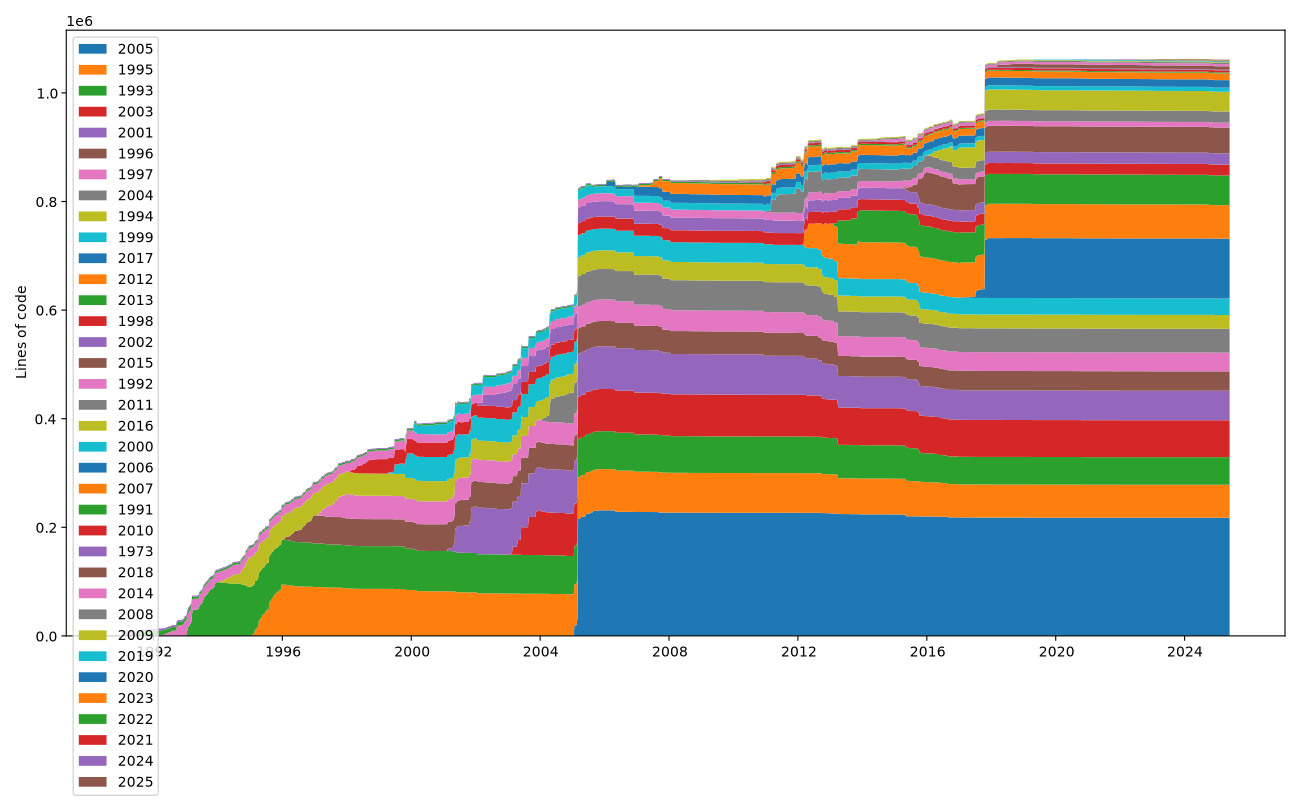
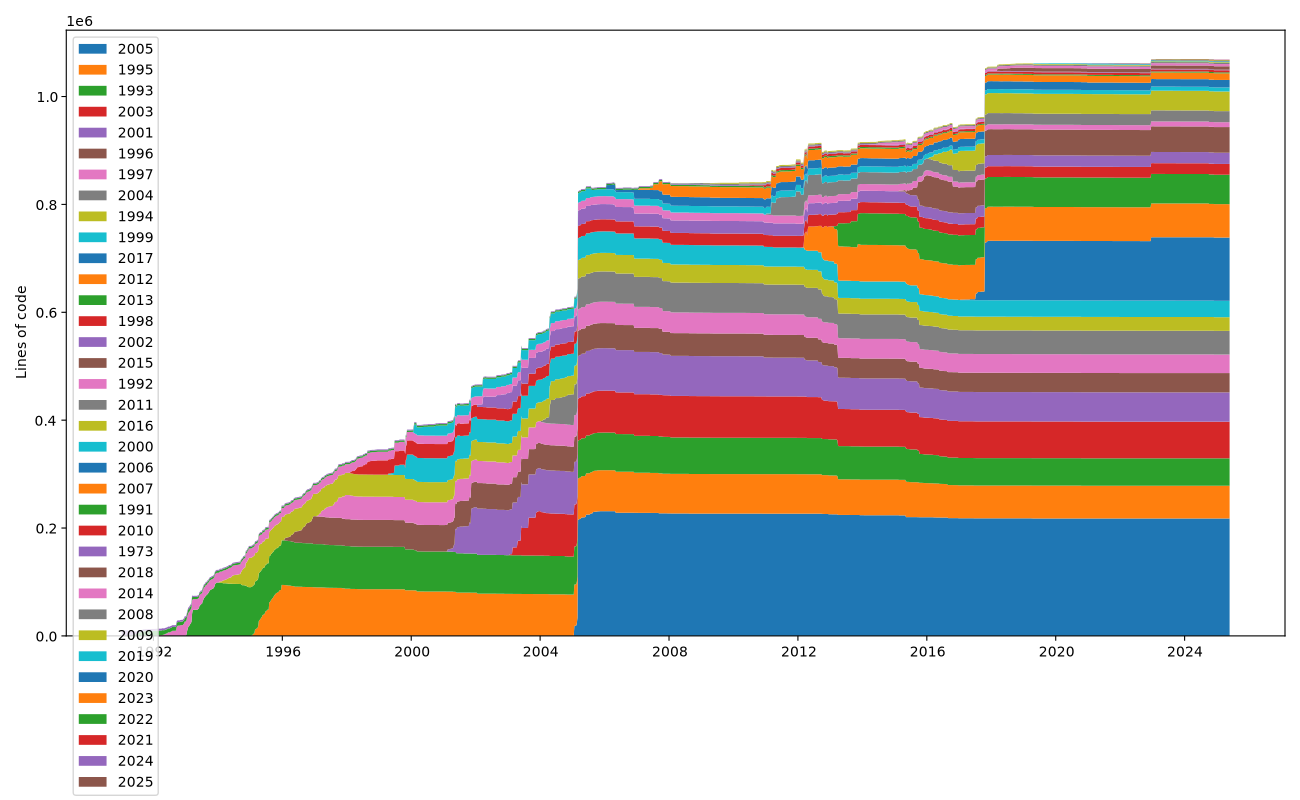
WIP: recalcuating stats

diff --git a/analysis/analyze.py b/analysis/analyze.py
@@ -14,7 +14,7 @@
 # See the License for the specific language governing permissions and
 # limitations under the License.
 
-from __future__ import print_function
+#from __future__ import print_function
 import argparse, git, datetime, numpy, pygments.lexers, traceback, time, os, fnmatch, json
 import pandas as pd
 from tqdm import tqdm
@@ -28,7 +28,11 @@ from datetime import UTC
 IGNORE_PYGMENTS_FILETYPES = ['*.json', '*.md', '*.ps', '*.eps', '*.txt', '*.xml', '*.xsl', '*.rss', '*.xslt', '*.xsd', '*.wsdl', '*.wsf', '*.yaml', '*.yml']
 
 
-def analyze(repos, interval=7*24*60*60, ignore=[], only=[],branch=None,rename={},cohortfm='%Y',all_filetypes=False,prefix='.',earliest=None):
+def analyze(repos, interval=7*24*60*60, 
+      ignore=[], only=[],branch=None,
+      rename={},cohortfm='%Y',
+      all_filetypes=False,prefix='.',earliest=None):
+
     default_filetypes = set()
     for _, _, filetypes, _ in pygments.lexers.get_all_lexers():
         default_filetypes.update(filetypes)
@@ -184,11 +188,34 @@ if __name__ == '__main__':
     outdir='.'
     
     repos=[
-        'bic-pipelines','patch_morphology','xdisp','arguments','BEaST','bicgl',
-        'Display','bicpl','classify','conglomerate', 
-        'EBTKS','EZminc','glim_image','ILT','inormalize','libminc','minctools',
-        'minc-widgets','mni_autoreg','mni-perllib','mrisim','N3','oobicpl',
-        'postf', 'ray_trace','Register','.'
+        'bic-pipelines',
+        'patch_morphology',
+        'xdisp',
+        'arguments',
+        'BEaST',
+        'bicgl',
+        'Display',
+        'bicpl',
+        'classify',
+        'conglomerate',
+        'EBTKS',
+        'EZminc',
+        'glim_image',
+        'ILT',
+        'inormalize',
+        'libminc',
+        'minctools',
+        'minc-widgets',
+        'mni_autoreg',
+        'mni-perllib',
+        'mrisim',
+        'N3',
+        'oobicpl',
+        'postf',
+        'ray_trace',
+        'Register',
+        'minc_gco',
+        '.'
         ]
     #repos=['.','patch_morphology']
     repo_prefix='..'
@@ -207,16 +234,15 @@ if __name__ == '__main__':
     if not os.path.exists(outdir):
         os.makedirs(outdir)
     
-    
     authors={}
     cohorts={}
     exts={}
     
-    for r in repos :
+    for r in list(set(repos)):
         earliest=None
         if r=='minctools': earliest='cc7477c7e7bf46a45a1959a7030fd65863e79062' # don't analyze beyond that (libminc & minctools split)
         
-        curves,commit_history,curves_set,ts=analyze(r,prefix=repo_prefix,rename=rename,interval=interval,earliest=earliest)
+        curves, commit_history, curves_set, ts = analyze(r, prefix=repo_prefix, rename=rename, interval=interval, earliest=earliest)
         
         def to_pandas(key_type, label_fmt=lambda x: x):
             key_items = sorted(k for t, k in curves_set if t == key_type)
@@ -270,12 +296,12 @@ if __name__ == '__main__':
     
     # save to HDF file
     store = pd.HDFStore('statistics.h5')
-    store['all_authors']=all_authors
-    store['all_cohorts']=all_cohorts
-    store['all_exts']   =all_exts
+    store['all_authors'] = all_authors
+    store['all_cohorts'] = all_cohorts
+    store['all_exts']    = all_exts
     
     # save libminc authors
-    store['libminc'] = authors['libminc']
+    store['libminc']     = authors['libminc']
     
     store.close()
     
